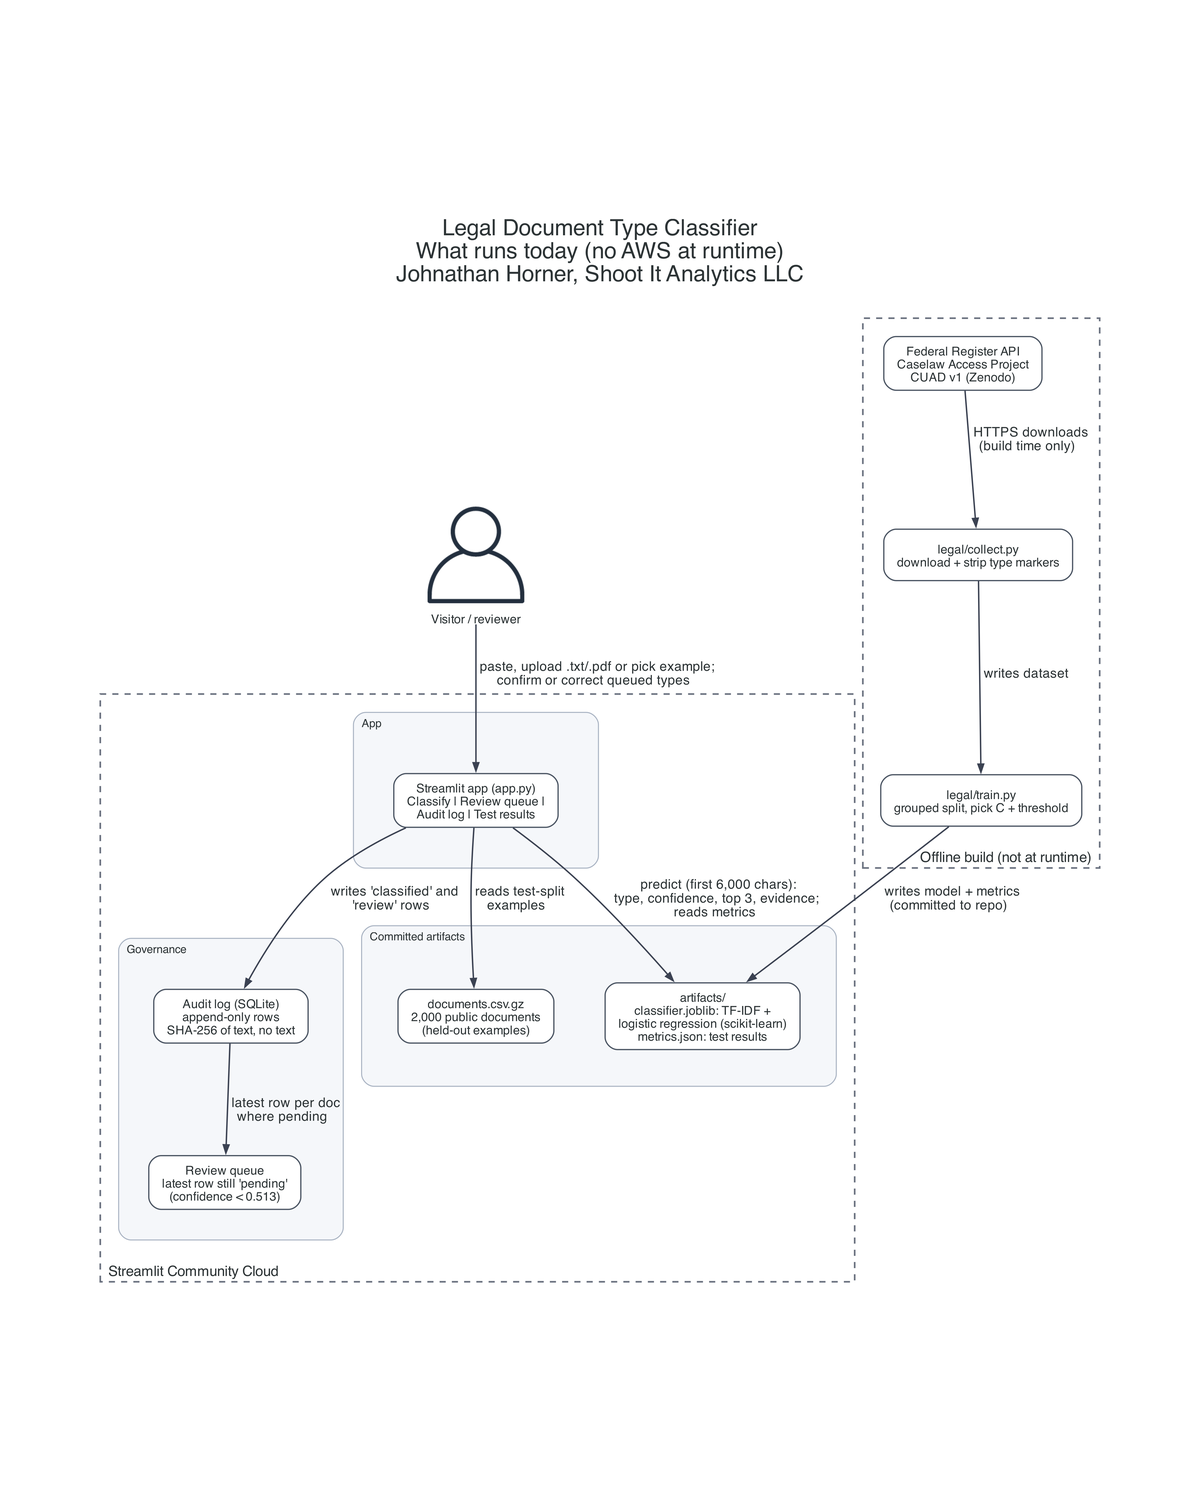
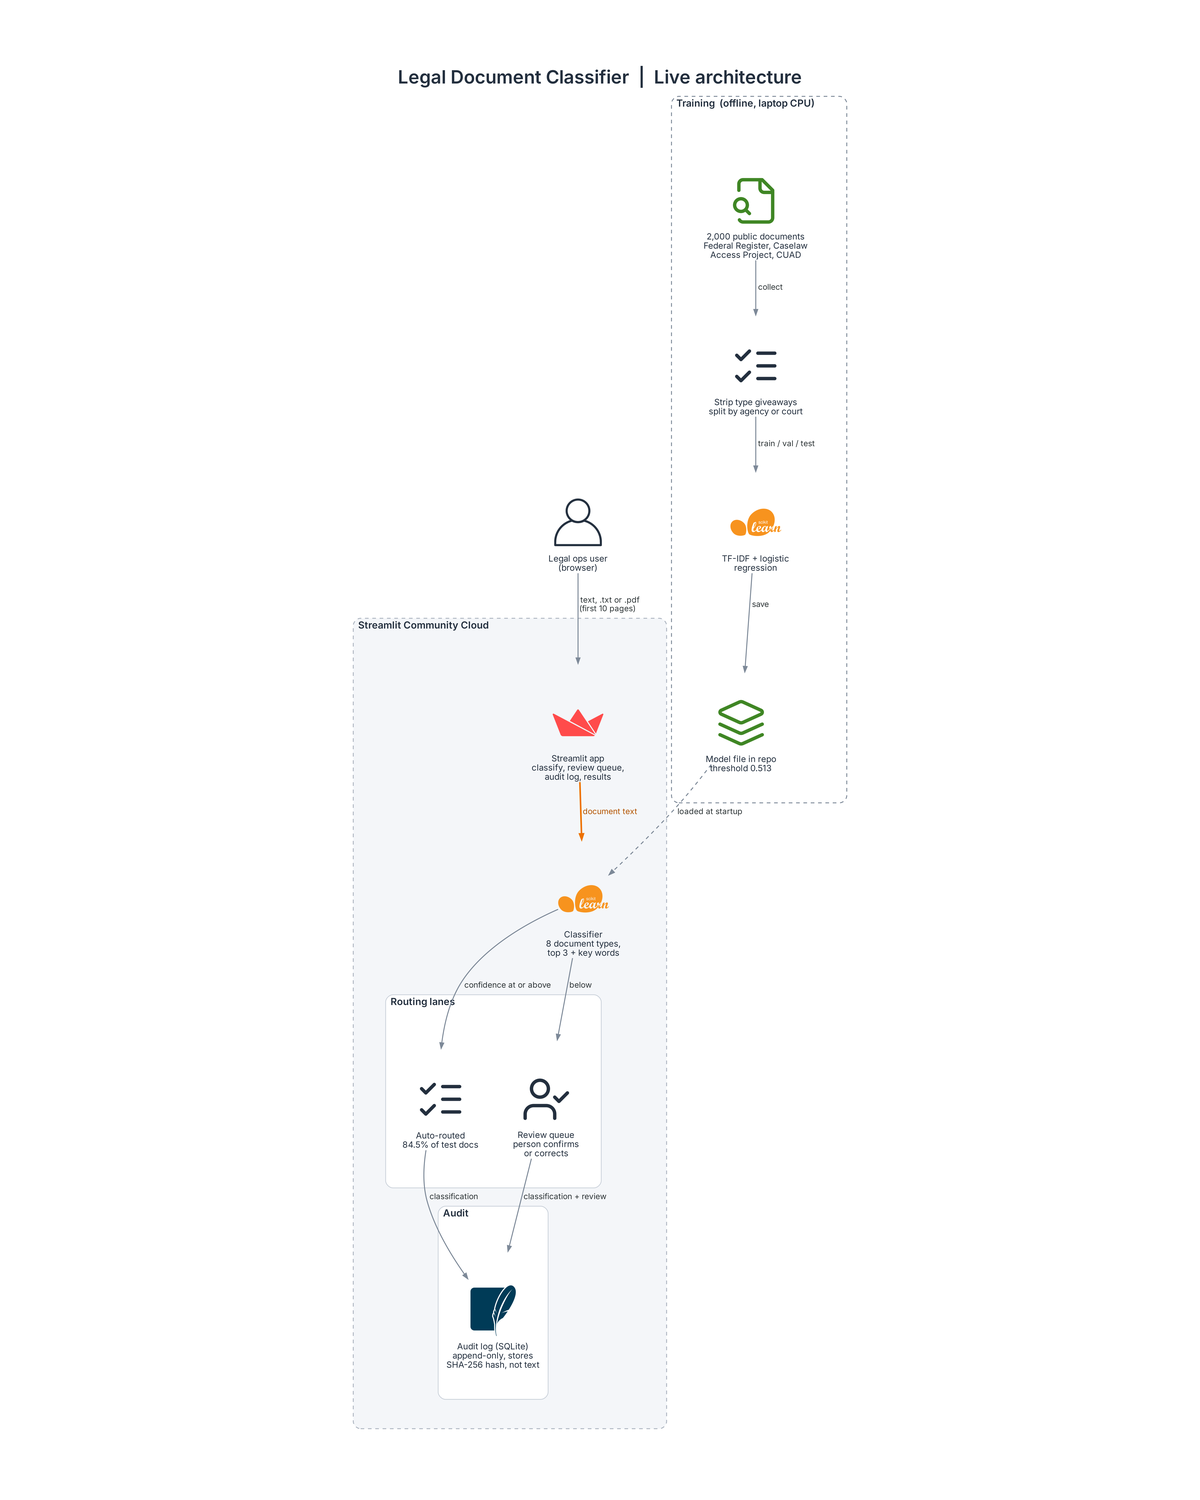
Replace architecture diagrams

diff --git a/docs/architecture/architecture.py b/docs/architecture/architecture.py
@@ -1,40 +1,41 @@
-"""Legal Document Type Classifier: what runs today (traced from origin/main).
+"""Legal Document Classifier: training pipeline (offline) and the live app. No AWS services."""
+import sys
+from pathlib import Path
 
-Run from this directory:  python architecture.py
-"""
-from diagrams.aws.general import User
+sys.path.insert(0, str(Path(__file__).resolve().parent))
+from diagrams import Diagram
+from diagrams.onprem.client import User
 
-from archstyle import arch, box, e, layer, linkedin, outside
+from style import EDGE, GRAPH, NODE, area, flow, icon, primary, soft
 
-OUT = "architecture"
-with arch("Legal Document Type Classifier", "What runs today (no AWS at runtime)", OUT):
-    user = User("Visitor / reviewer")
+with Diagram("Legal Document Classifier  |  Live architecture",
+             filename=str(Path(__file__).with_name("architecture")), outformat="png", direction="TB",
+             show=False, graph_attr=GRAPH, node_attr=NODE, edge_attr=EDGE):
+    user = User("Legal ops user\n(browser)")
 
-    with outside("Streamlit Community Cloud"):
-        with layer("App", margin=40):
-            app = box("Streamlit app (app.py)\nClassify | Review queue |\nAudit log | Test results")
-        with layer("Governance"):
-            audit = box("Audit log (SQLite)\nappend-only rows\nSHA-256 of text, no text")
-            queue = box("Review queue\nlatest row still 'pending'\n(confidence < 0.513)")
-        with layer("Committed artifacts", margin=36):
-            data = box("documents.csv.gz\n2,000 public documents\n(held-out examples)")
-            model = box("artifacts/\nclassifier.joblib: TF-IDF +\nlogistic regression (scikit-learn)\nmetrics.json: test results")
+    with area("Training  (offline, laptop CPU)", "plan"):
+        sources = icon("file-search-green", "2,000 public documents\nFederal Register, Caselaw\nAccess Project, CUAD")
+        clean = icon("list-checks-ink", "Strip type giveaways\nsplit by agency or court")
+        train = icon("scikitlearn", "TF-IDF + logistic\nregression")
+        model = icon("layers-green", "Model file in repo\nthreshold 0.513")
 
-    offline = outside("Offline build (not at runtime)")
-    offline.dot.graph_attr["labeljust"] = "r"  # keep the outgoing arrow clear of the label
-    with offline:
-        sources = box("Federal Register API\nCaselaw Access Project\nCUAD v1 (Zenodo)")
-        collect = box("legal/collect.py\ndownload + strip type markers")
-        train = box("legal/train.py\ngrouped split, pick C + threshold")
+    with area("Streamlit Community Cloud", "host"):
+        app = icon("streamlit", "Streamlit app\nclassify, review queue,\naudit log, results")
+        clf = icon("scikitlearn", "Classifier\n8 document types,\ntop 3 + key words")
+        with area("Routing lanes"):
+            auto = icon("list-checks-ink", "Auto-routed\n84.5% of test docs")
+            queue = icon("user-check-ink", "Review queue\nperson confirms\nor corrects")
+        with area("Audit"):
+            audit = icon("sqlite", "Audit log (SQLite)\nappend-only, stores\nSHA-256 hash, not text")
 
-    user >> e("paste, upload .txt/.pdf or pick example;\nconfirm or correct queued types") >> app
-    app >> e("writes 'classified' and\n'review' rows") >> audit
-    audit >> e("latest row per doc\nwhere pending") >> queue
-    app >> e("reads test-split\nexamples") >> data
-    app >> e("predict (first 6,000 chars):\ntype, confidence, top 3, evidence;\nreads metrics") >> model
+    sources >> flow("collect") >> clean
+    clean >> flow("train / val / test") >> train
+    train >> flow("save") >> model
+    model >> soft("loaded at startup") >> clf
 
-    sources >> e("HTTPS downloads\n(build time only)") >> collect
-    collect >> e("writes dataset") >> train
-    train >> e("writes model + metrics\n(committed to repo)") >> model
-
-linkedin(OUT)
+    user >> flow("text, .txt or .pdf\n(first 10 pages)") >> app
+    app >> primary("document text") >> clf
+    clf >> flow("confidence at or above") >> auto
+    clf >> flow("below") >> queue
+    auto >> flow("classification") >> audit
+    queue >> flow("classification + review") >> audit

diff --git a/docs/architecture/style.py b/docs/architecture/style.py
@@ -1,0 +1,58 @@
+"""Shared look for every portfolio architecture diagram.
+
+Johnathan Horner, Shoot It Analytics LLC.
+Python diagrams library, official AWS icons, white background, top-down, labeled arrows.
+Brand icons: Simple Icons (CC0). Outline icons: Lucide (ISC).
+"""
+from pathlib import Path
+
+from diagrams import Cluster, Edge
+from diagrams.custom import Custom
+
+ICONS = Path(__file__).parent / "icons"
+FONT = "Inter"
+
+INK = "#232F3E"      # AWS squid ink
+ORANGE = "#ED7100"   # primary AI path
+GREY = "#7D8998"
+RED = "#DD344C"
+
+GRAPH = {
+    "dpi": "300", "bgcolor": "white", "fontname": FONT + " SemiBold", "fontsize": "30",
+    "fontcolor": INK, "labelloc": "t", "pad": "0.6", "nodesep": "1.25", "ranksep": "1.05",
+    "splines": "spline", "newrank": "true", "compound": "true",
+}
+NODE = {"fontname": FONT, "fontsize": "14", "fontcolor": INK, "width": "1.15", "height": "1.15",
+        "imagescale": "true", "labelloc": "b"}
+EDGE = {"fontname": FONT, "fontsize": "13", "fontcolor": "#3B4754", "color": GREY, "penwidth": "1.6",
+        "arrowsize": "0.9"}
+
+
+def area(label, kind="layer"):
+    """Cluster styles: 'host' (outer platform), 'aws' (AWS Cloud boundary), 'ext' (outside vendor), 'layer'."""
+    base = {"fontname": FONT + " SemiBold", "fontsize": "16", "fontcolor": INK, "margin": "48",
+            "labeljust": "l", "style": "rounded"}
+    styles = {
+        "host": {"bgcolor": "#F4F6F9", "pencolor": "#AEB6C1", "style": "rounded,dashed", "penwidth": "1.5"},
+        "aws": {"bgcolor": "#FFFFFF", "pencolor": INK, "penwidth": "2.2", "style": "solid"},
+        "ext": {"bgcolor": "#FAF8FD", "pencolor": "#B9A9D6", "style": "rounded,dashed", "penwidth": "1.5"},
+        "layer": {"bgcolor": "#FFFFFF", "pencolor": "#C9D0D9", "penwidth": "1.2"},
+        "plan": {"bgcolor": "#FFFFFF", "pencolor": GREY, "style": "rounded,dashed", "penwidth": "1.5"},
+    }
+    return Cluster(label, graph_attr={**base, **styles[kind]})
+
+
+def icon(name, label):
+    return Custom(label, str(ICONS / f"{name}.png"))
+
+
+def flow(label="", **kw):
+    return Edge(label=f" {label} " if label else "", **kw)
+
+
+def primary(label=""):
+    return flow(label, color=ORANGE, penwidth="2.6", fontcolor="#B35400")
+
+
+def soft(label=""):
+    return flow(label, style="dashed")

diff --git a/docs/architecture/arrow-verification.md b/docs/architecture/arrow-verification.md
@@ -1,18 +1,11 @@
-# Arrow verification: Legal Document Type Classifier
+# Arrow check
 
-Diagram: `docs/architecture/architecture.png` (What runs today, no AWS at runtime).
-Code read from `origin/main` at 9190b62. No arrow touches an AWS service, so no AWS doc applies.
-No second diagram: there is no IaC (CDK, Terraform, SAM) on main.
+Every arrow that touches an AWS service, with the official AWS page that confirms it and its direction. Arrows between non-AWS parts (Streamlit, Gemini, SQLite, scikit-learn and so on) were checked against the code only. Links come from docs.aws.amazon.com only.
 
-| From | To | Action | Code evidence | AWS doc |
-|---|---|---|---|---|
-| Visitor / reviewer | Streamlit app | Paste text, upload .txt/.pdf (first 10 PDF pages) or pick a held-out example; confirm or correct a queued type | app.py:50-67 (inputs), app.py:37-43 (PDF read, `pages[:10]`), app.py:92-104 (review tab, `Save review`) | N/A (not AWS) |
-| Streamlit app | Audit log (SQLite) | Writes a `classified` row (SHA-256 of text, never the text; `pending` if routed to review) and, on review, a `review` row (`confirmed`/`corrected`) | app.py:72 `audit.record_classification(...)`, app.py:103 `audit.record_review(...)`; legal/audit.py:50-58, 60-67; DB path app.py:26 (`LEGAL_AUDIT_DB`, default `audit_log.sqlite3`) | N/A (not AWS) |
-| Audit log | Review queue | Query: latest row per document where `reviewer_action = 'pending'`, lowest confidence first | legal/audit.py:80-88; app.py:93 | N/A (not AWS) |
-| Streamlit app | documents.csv.gz | Reads the dataset, rebuilds the split, shows 3 test-split examples per type | app.py:29-34 (`make_splits(pd.read_csv(DATA_FILE))`, `groupby("label").head(3)`); legal/config.py:6 | N/A (not AWS) |
-| Streamlit app | artifacts/ (classifier.joblib + metrics.json) | Loads the joblib pipeline and calls `predict` (first 6,000 chars; type, confidence, top 3, evidence terms; route by threshold); reads metrics.json for the Test results tab | app.py:19-21 (`DocumentClassifier.load()`), app.py:71; legal/classifier.py:45-68, 74-76; legal/config.py:9-10,14; app.py:116-117 | N/A (not AWS) |
-| Public sources (Federal Register API, Caselaw Access Project, CUAD on Zenodo) | legal/collect.py | HTTPS GET downloads with `urllib.request` (build time only, run by hand via `python -m legal.collect`) | legal/collect.py:32 (FR API), :42 (CUAD URL), :53-63 (`fetch`), :96, :106, :126, :148 | N/A (not AWS) |
-| legal/collect.py | legal/train.py | Writes `data/documents.csv.gz`, which train reads | legal/collect.py:180-183; legal/train.py:67 | N/A (not AWS) |
-| legal/train.py | artifacts/ | Writes `classifier.joblib` and `metrics.json` (committed to the repo; README.md:88-89) | legal/train.py:111-112; legal/classifier.py:70-72 | N/A (not AWS) |
+## architecture.png (live)
 
-UNVERIFIED arrows: none (no AWS arrows).
+No AWS services in this diagram. Every arrow was checked against the code.
+
+## UNVERIFIED
+
+None.
